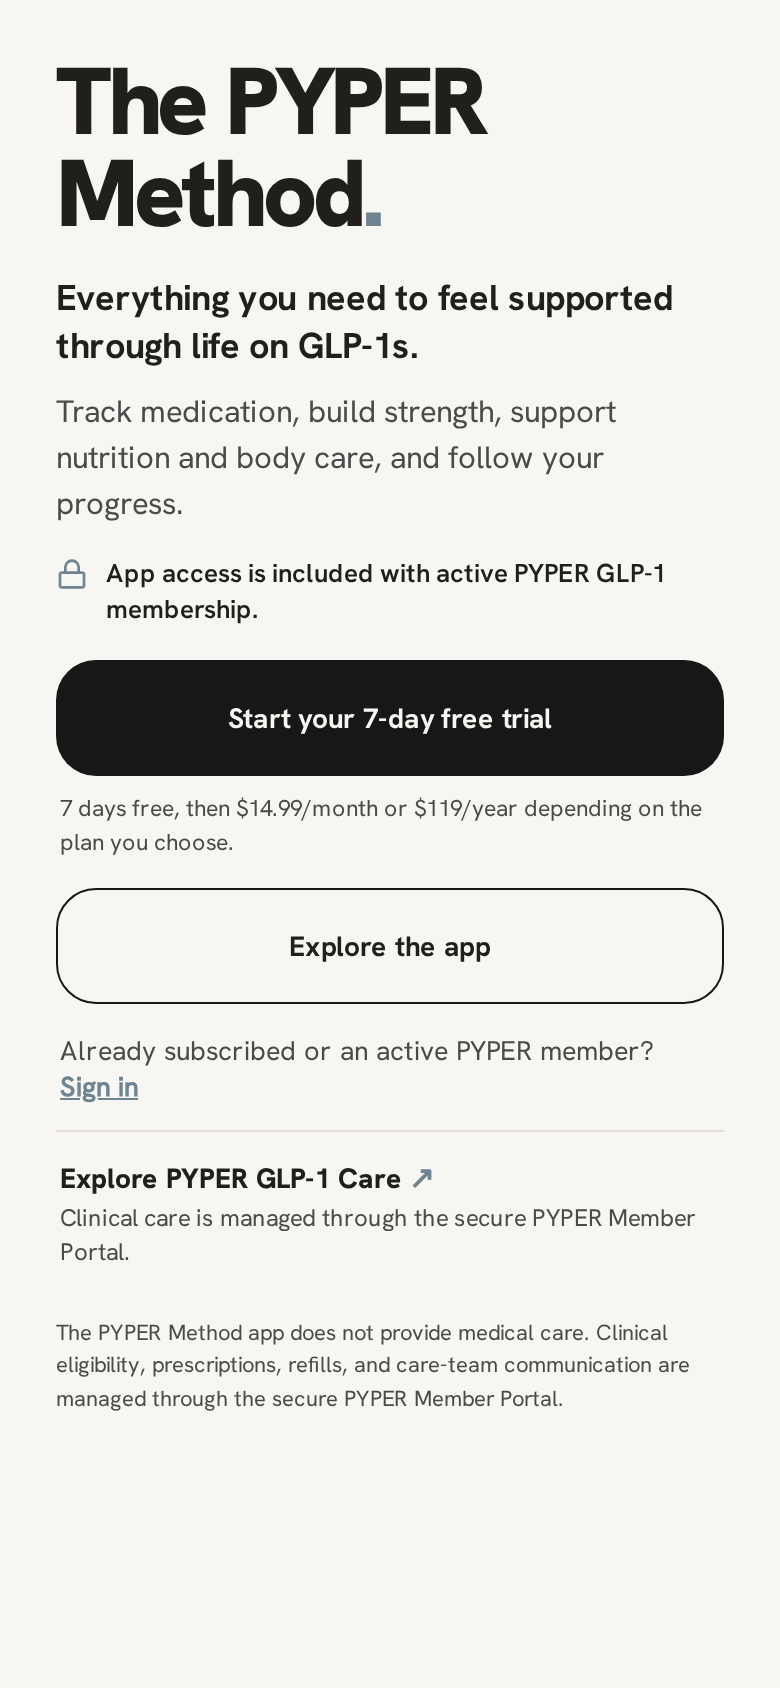
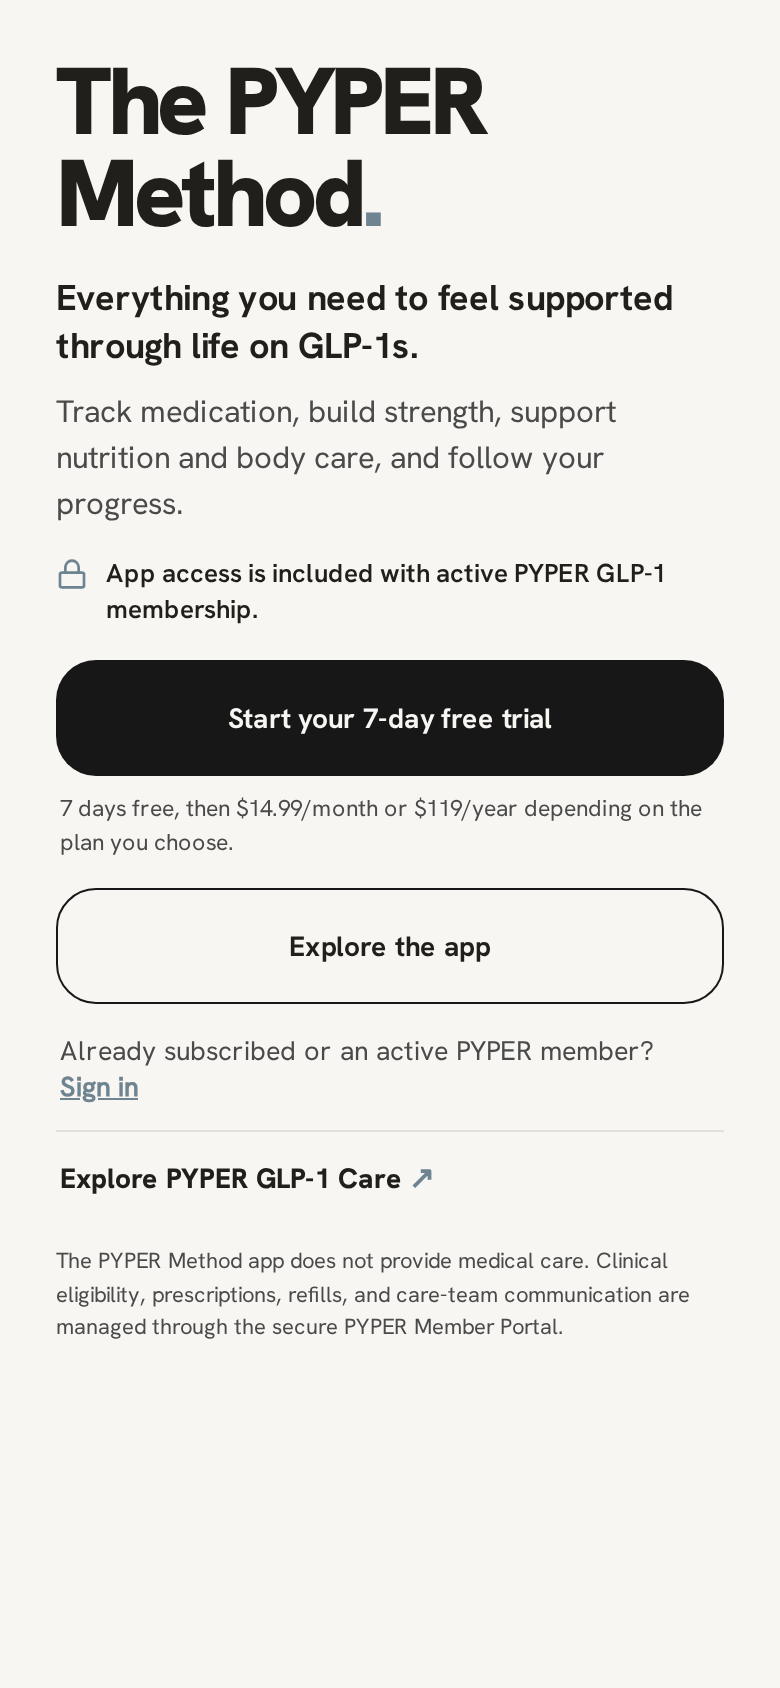
fix(mobile): remove secondary care-row sentence from Welcome
Copy-only correction. The GLP-1 Care row is now the title plus its single
external-link arrow, followed directly by the approved medical disclaimer:

  Explore PYPER GLP-1 Care ↗
  The PYPER Method app does not provide medical care. Clinical eligibility,
  prescriptions, refills, and care-team communication are managed through the
  secure PYPER Member Portal.

Note for the record: "Clinical care is managed through the secure PYPER Member
Portal." IS present in the approved frozen Welcome (`.exCopy`, line 2649). It
is removed on approver instruction, making this the second deliberate omission
from that row alongside the trailing `›` chevron (`.exChev`, line 2651). The
string is retained in copy.ts, unrendered and annotated, so it is not lost if
the decision is revisited. No disclaimer language is lost either way — the
disclaimer carries the same Member Portal statement.

No spacing, typography, layout, navigation, icon, form, plan, purchase,
access-logic or other copy change. The only layout consequence is that Welcome
now fits 340x720 without scrolling; the flow suite asserted that this viewport
MUST scroll, which was wrong — short scrolling is permitted there, not
required, so the assertion's lower bound was dropped.

Also stages the pnpm-lock.yaml entry for react-native-svg, which was added to
package.json in f13b213 but missed because that commit staged apps/mobile only.
Without it a clean install would not resolve the tab-icon dependency.
[…]

Changed region(s): [[0.0615, 0.7085, 0.8923, 0.8318]]

diff --git a/apps/mobile/src/app/index.tsx b/apps/mobile/src/app/index.tsx
@@ -129,9 +129,6 @@ export default function WelcomeScreen() {
                 ↗
               </AppText>
             </AppText>
-            <AppText variant="sub" tone="soft" style={styles.careDetail}>
-              {WELCOME_COPY.careCopy}
-            </AppText>
           </View>
         </Pressable>
 
@@ -221,12 +218,6 @@ const styles = StyleSheet.create({
     // .exTitle — 14px / 800 / -.01em
     fontSize: 14,
     letterSpacing: -0.14,
-  },
-  careDetail: {
-    // .exCopy — 12px / 1.4
-    fontSize: 12,
-    lineHeight: 16.8,
-    marginTop: 2,
   },
   disclaimer: {
     // .welcomeDisclaimer — max-width 340; margin 12 0 4

diff --git a/apps/mobile/src/features/access/copy.ts b/apps/mobile/src/features/access/copy.ts
@@ -30,6 +30,12 @@ export const WELCOME_COPY = {
   signInPrompt: 'Already subscribed or an active PYPER member? ',
   signInAction: 'Sign in',
   careTitle: 'Explore PYPER GLP-1 Care',
+  /**
+   * Present in the approved prototype (`.exCopy`, line 2649) but deliberately
+   * NOT rendered on approver instruction, so the care row is the title plus a
+   * single external-link arrow. Retained here so the approved string is not
+   * lost if the decision is revisited.
+   */
   careCopy:
     'Clinical care is managed through the secure PYPER Member Portal.',
   careAccessibilityLabel: 'Explore PYPER GLP-1 Care in an external browser',

diff --git a/apps/mobile/docs/VISUAL-REVIEW.md b/apps/mobile/docs/VISUAL-REVIEW.md
@@ -80,8 +80,16 @@ Remaining visible differences:
   word later, after "supported".
 - **Sign-in line break.** The prototype keeps "member? Sign in" together on the
   second line; native pushes the whole action to its own line.
-- **Care-row chevron.** The prototype has both an inline `↗` and a trailing `›`
-  (`.exChev`). Native shows only the arrow — removed on your instruction.
+- **Care row is title-only.** Two approved-source elements are deliberately
+  omitted on approver instruction:
+  1. the trailing `›` chevron (`.exChev`, line 2651), so there is a single
+     external-link indicator;
+  2. the secondary sentence "Clinical care is managed through the secure PYPER
+     Member Portal." (`.exCopy`, line 2649).
+  The row is now "Explore PYPER GLP-1 Care ↗" followed directly by the approved
+  medical disclaimer, which is unchanged and still carries the same Member
+  Portal language. The string is retained in `copy.ts` if the decision is
+  revisited.
 - Wordmark scale, weight, Steel period, headline, supporting copy, membership
   note, both buttons and the disclaimer match.
 - Environmental: the prototype draws a simulated iOS status bar and notch; the
@@ -179,7 +187,9 @@ and are a candidate for the same treatment in a later pass.
 ### 9. Welcome at 340 × 720 — `9-welcome-340x720.png`
 
 Gutters step down to 20pt as the prototype's `@media(max-width:349px)` rule
-specifies. Scrolls 32pt; no horizontal scrolling.
+specifies. Now fits without scrolling at all — removing the care-row sentence
+shortened the page — and there is no horizontal scrolling. Short scrolling
+remains permitted at this size; it is simply no longer needed.
 
 ---
 
@@ -193,7 +203,7 @@ specifies. Scrolls 32pt; no horizontal scrolling.
 | Plan radio top- vs centre-aligned | Low | One style change |
 | Headline / sign-in line breaks | Low | Font metric rounding |
 | Back chip 44pt vs 33pt | Low | Deliberate — touch target |
-| Care-row chevron removed | None | Approved divergence |
+| Care-row chevron + secondary sentence removed | None | Approved divergences |
 | Password fields, pending banners, Restore Purchases | None | Brief-mandated additions |
 | Hyperhuman wording omitted | None | Deferred scope |
 
